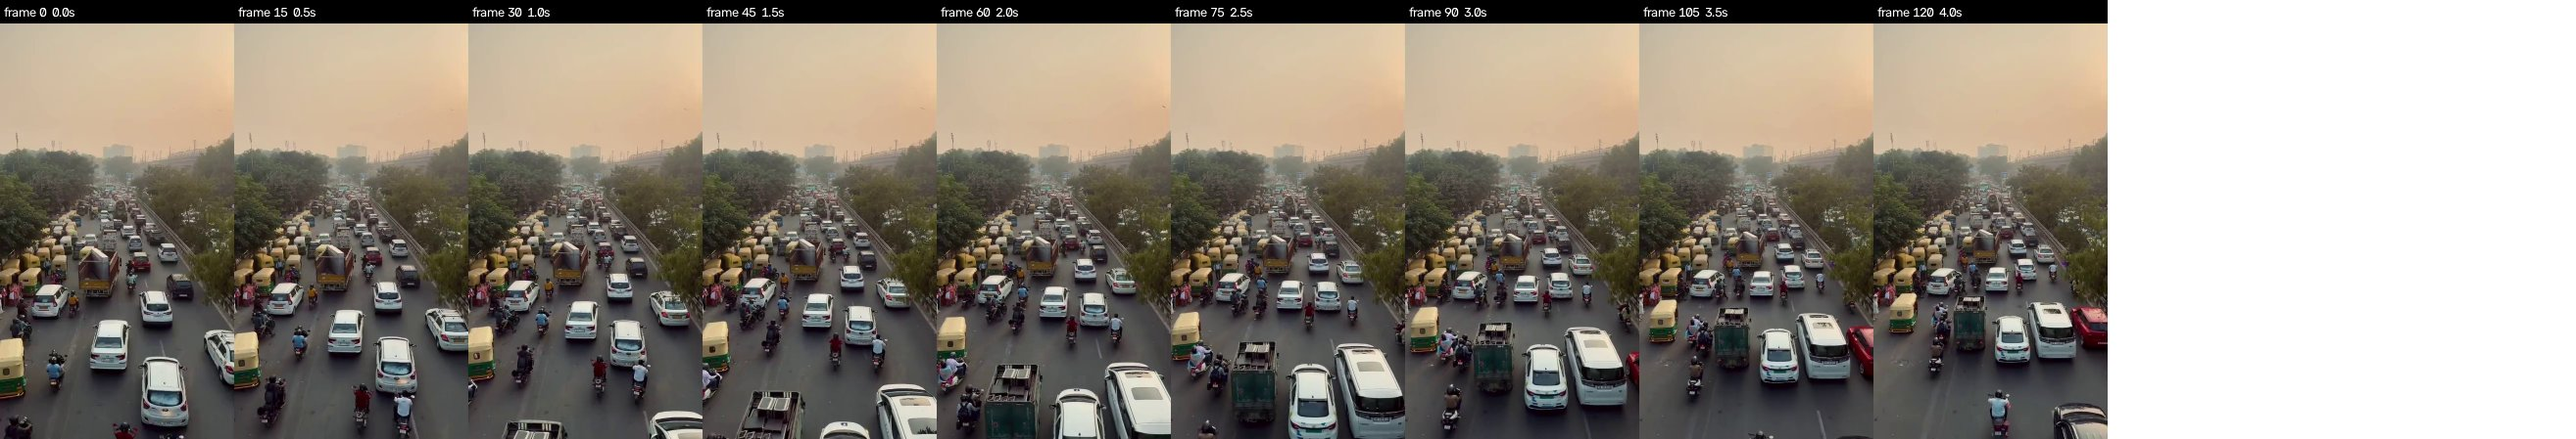
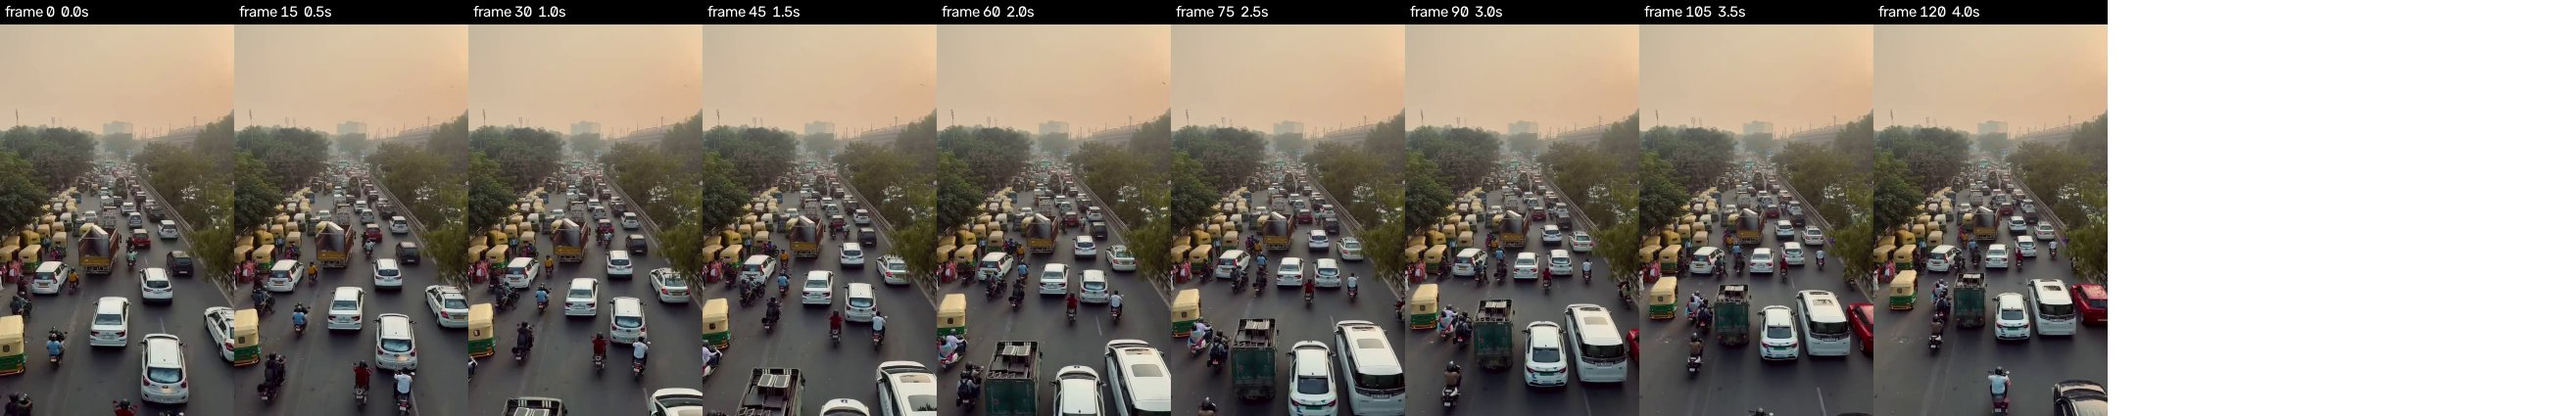
Health check before P4: 10/10 scripts, models, tests, data, docs pass; regenerate 6 stale contact sheets; make calibration report reproducible; P2 re-check on trimmed clips

diff --git a/tracevision/calibrate.py b/tracevision/calibrate.py
@@ -51,6 +51,13 @@ def correct(case, res):
     return res.decision == "no_confident_match"
 
 
+PRE_CALIBRATION = {"t_abs": 75.0, "t_margin": 5.0}   # hand-set design values before calibration
+
+
+def _with(cfg, **match_overrides):
+    c = json.loads(json.dumps(cfg)); c["match"].update(match_overrides); return c
+
+
 _RANKED = {}
 
 
@@ -109,8 +116,8 @@ def main():
            "best_calibration_balanced_accuracy": best_score, "plateau_size": len(plateau),
            "chosen": {"t_abs": t_abs, "t_margin": t_margin},
            "calibration": evaluate(cases, calib, cfg, registry), "holdout": evaluate(cases, hold, cfg, registry),
-           "before_calibration_defaults": {"t_abs": base["match"]["t_abs"], "t_margin": base["match"]["t_margin"],
-                                           "holdout": evaluate(cases, hold, base, registry)["balanced_accuracy"]}}
+           # fixed hand-set starting values (from the design), so the report is identical on every rerun
+           "before_calibration_defaults": {**PRE_CALIBRATION, "holdout": evaluate(cases, hold, _with(base, **PRE_CALIBRATION), registry)["balanced_accuracy"]}}
     REPORT.write_text(json.dumps(out, indent=2), encoding="utf-8")
     print(json.dumps({k: out[k] for k in ("chosen", "best_calibration_balanced_accuracy", "plateau_size")}))
     for s in ("calibration", "holdout"):

diff --git a/PROBLEMS.md b/PROBLEMS.md
@@ -1,6 +1,6 @@
 # TRACEVISION AI — Phase 0 Problem Log
 
-**Last updated:** 2026-11-23 (P3 done: fusion + matching, 26 tests, calibrated. Answer-key fix A24. Clip trim by another session A25.)
+**Last updated:** 2026-11-23 (Health check passed: 10/10 scripts, models, tests, data. Verified labels in: 51 vehicles. Open: cross-camera pair A6.)
 **Severity:** 🔴 Blocker (stops a phase) · 🟠 High (risks the demo or the results) · 🟡 Medium (workaround exists) · ⚪ Low / note
 
 Evidence for every item is in `TRACEVISION_DATA/reports/`. Done work is summarised in [completions.md](completions.md), the plan is in [whatnext.md](whatnext.md) and decisions are in [DECISIONS.md](DECISIONS.md).
@@ -56,7 +56,7 @@ Evidence for every item is in `TRACEVISION_DATA/reports/`. Done work is summaris
 | A22 | ⚪ | The spec's label columns have no place for a vehicle's full plate when the clip shows it only partly, but the registry needs a full plate to seed that vehicle. | Partly readable vehicles that should be `in_registry = yes` could not be seeded. | Added an optional `registry_plate_full` column, filled only when the team knows the plate from outside the clip (their own vehicle). It is never inferred from video. The validator checks it against the readable characters. | Decision, documented in LABELING_GUIDE.md |
 | A23 | 🟠 | **An AI-drafted label file appeared** (`test_clip_labels.csv`, 36 rows all noted "AI DRAFT - verify", plus `label_review/` images). It was probably written in a forked session; the origin can't be confirmed. I pushed it to the public repo on 2026-11-23 without noticing. It marks 27 of 36 vehicles `in_registry = no` and has no cross-camera group. | Treated as ground truth, it would make the system grade itself (the spec says only humans write labels). | **Renamed to `test_clip_labels_AI_DRAFT.csv`** (owner's choice). The validator and registry script read only `test_clip_labels.csv`. The team verifies every row against the clip before saving `test_clip_labels.csv`, and the guide says so (DECISIONS E11). It's still in git history. | ✅ Closed 2026-11-23: the owner verified all 51 draft rows (36 + 15 close-up vehicles) and they are saved as `test_clip_labels.csv`. The draft file is kept for reference. |
 | A24 | 🟡 | **Registry answer key had wrong expected outcomes:** 20 of 124 synthetic cases said `match` although another registry vehicle (same colour and type) fit every readable character, e.g. a decoy differing only at a hidden `?` position. | It would have penalised a correct matcher for saying "ambiguous". | Fixed in `generate_synthetic_registry.py`: an automatic consistency check relabels such cases `ambiguous` (registry rows unchanged). Found by P3. | ✅ Fixed |
-| A25 | 🟡 | **Six WhatsApp clips (clip01, 02, 04, 05, 06, 08) play their footage twice.** Another session trimmed them to the unique first half in commit `9c8921b` (2026-11-23 01:58), overwriting the files in `raw/`. | Doubled footage would double-count vehicles and fake "re-appearances". The P1/P2 smoke checks ran on the doubled versions, and the contact sheets and `frames_index.csv` from before the trim show both halves. | The originals are still in git history (`b85526d`), so nothing is lost. Re-run `extract_test_video_frames.py` and the contact sheets on the trimmed clips before labelling frames past the half-way point. | ✅ Closed: frames, `frames_index.csv`, `clips_meta.json` and contact sheets regenerated on the trimmed clips (9c8921b); clip06 fps corrected to 29.883 (b9a034d). |
+| A25 | 🟡 | **Six WhatsApp clips (clip01, 02, 04, 05, 06, 08) play their footage twice.** Another session trimmed them to the unique first half in commit `9c8921b` (2026-11-23 01:58), overwriting the files in `raw/`. | Doubled footage would double-count vehicles and fake "re-appearances". The P1/P2 smoke checks ran on the doubled versions, and the contact sheets and `frames_index.csv` from before the trim show both halves. | The originals are still in git history (`b85526d`), so nothing is lost. Re-run `extract_test_video_frames.py` and the contact sheets on the trimmed clips before labelling frames past the half-way point. | ✅ Resolved 2026-11-23: frames re-extracted (by the other session) and the 6 contact sheets regenerated. The P2 clip check re-run on the trimmed clips gives the same plate sizes (`reports/health_check_2026-11-23.md`). |
 | A11 | ⚪ | Two `.mp4` files sit in `~/Downloads` (`DS.mp4` and `original-5adf…mp4`). They are outside the working folder and were not inspected. | They may be intended test clips. | If so, move them into `raw/test_videos/` and record their source and licence. | Team to confirm |
 
 ## B. Models

diff --git a/TRACEVISION_DATA/reports/health_check_2026-11-23.md b/TRACEVISION_DATA/reports/health_check_2026-11-23.md
@@ -1,0 +1,32 @@
+# Health check: everything built so far (2026-11-23)
+
+Asked for by the owner before P4: "check once again if all the things are working till now properly". Every check below **actually ran**. Script outputs went to a scratch folder, so nothing in the repo was overwritten by the checks themselves.
+
+## Result: ✅ everything works. 3 small fixes made, 2 open items (expected)
+
+| Area | Check | Result |
+|---|---|---|
+| **Git** | Clean working tree, in sync with GitHub, other session's work committed (`9c8921b`, `b9a034d`, `21d641d`) | ✅ |
+| **Plate data** | processed 2,069 / 336 / 169 images = labels; boxes 2,084 / 339 / 171; `name_map` 2,574 rows; leakage-free test 106; raw 5,152 files | ✅ matches the P0B report |
+| **OCR set** | 1,709 rows, 965 primary, 0 missing crop files | ✅ |
+| **Clips** | 11 files ↔ 11 `clips.csv` rows; real frame counts and durations match `clips.csv` (to within 0.04 s); sources and licences filled | ✅ |
+| **Frames** | `frames_index.csv` matches the trimmed clips; no frames past any clip's end; every frame file is indexed | ✅ |
+| **Contact sheets** | **6 were stale** (made before the trim, so they showed the doubled footage) | 🔧 **Regenerated** for clip01, 02, 04, 05, 06, 08 |
+| **Registry** | 334 rows, unique plates, all `synthetic = true`, spec columns; every expected ID in the 124 cases exists; **regenerating gives byte-identical registry and cases** | ✅ reproducible |
+| **Labels** | `test_clip_labels.csv`: 51 vehicles in 11 clips, owner-verified (commit `21d641d`). Validator: **0 field errors**, 0 warnings. 1 coverage error: no cross-camera group yet | ✅ (cross-camera pair is planned: A6) |
+| **10 Phase 0 scripts** | Each run on a small sample: inspect, validate_plate, prepare_plate, build_ocr, awiros (GPU), extract_frames, template, validate_labels, degrade, registry | ✅ **10/10 pass** |
+| **Awiros OCR** | GPU sample of 20: 80% exact, CER 3.2%, **14 ms median** (same as P0C) | ✅ |
+| **torch + Paddle** | Two-process design: YOLO in the main process, OCR worker at about 15 ms per crop, YOLO still fine afterwards | ✅ |
+| **Model files** | UVH-26 sha256 `12dbeb8f…` ✅, plate detector `3f8e0009…` ✅, UVH-26 loads with 14 classes | ✅ |
+| **Plate detector** | Re-evaluated: leakage-free mAP50 **0.9945** / mAP50-95 **0.754**, identical to P2 | ✅ reproducible |
+| **P2 on trimmed clips** | clip01/02/08: median plate height 14 / 9.5 / 14 px (was 13 / 9 / 13 on the doubled versions) | ✅ conclusions unchanged; note added to the P2 report |
+| **P3 code** | 26 unit tests pass; calibration picks the same thresholds (67.5 / 5) with holdout 62/62 | ✅ |
+| **Calibration report** | **Wasn't byte-reproducible:** the "before calibration" field recorded whatever `config.yaml` held at run time (75, then 67.5) | 🔧 **Fixed** (pinned to the original design values); now identical on rerun |
+| **Docs** | All links and referenced file paths in the top-level docs, reports and the labelling guide exist | ✅ 0 broken |
+
+## Open (known, not failures)
+1. **No cross-camera pair yet (A6).** The owner will film one car from 2 positions. Until then the label validator reports 1 coverage error, which is expected.
+2. **Label balance:** 42 of 51 labelled vehicles are `in_registry = no`, so only 9 vehicles can test a positive match on real clips. That's fine for no-match testing. More `yes` vehicles with readable plates would strengthen the match evaluation (P6).
+
+## Lessons recorded
+- On Windows, anything that starts PyTorch data loaders (training or `model.val`) must run from a `.py` file, not from stdin, or it hangs with the GPU idle. It happened twice (P2 and this check), so use the scripts in `scripts/smoke/`.

diff --git a/completions.md b/completions.md
@@ -115,6 +115,10 @@ Full report: `TRACEVISION_DATA/reports/p3_fusion_and_matching.md`. Code in `trac
 - **26 unit tests pass.** Thresholds calibrated with a split by anchor: **held-out 62/62**, top-1 32/32. The cases are synthetic designed traps, not real-world accuracy.
 - Found and fixed **20 wrong expected outcomes** in the generated answer key (A24).
 
+## 4e. Health check (2026-11-23)
+
+Full report: `TRACEVISION_DATA/reports/health_check_2026-11-23.md`. **All 10 Phase 0 scripts, all 3 models, the 26 tests, the data and the docs check out.** Fixed along the way: 6 stale contact sheets (after the clip trim) and a reproducibility bug in the calibration report. **Owner-verified labels are in** (`test_clip_labels.csv`, 51 vehicles, 0 field errors); only the cross-camera pair is missing (A6).
+
 ## 5. Decisions
 
 All decisions, with the reason for each and their status, are in **[DECISIONS.md](DECISIONS.md)** (D1–D10 data, M1–M6 models, E1–E9 evaluation, P1–P3 process).
@@ -139,4 +143,5 @@ All decisions, with the reason for each and their status, are in **[DECISIONS.md
 | 4b6bd57 | DECISIONS.md, status docs refreshed |
 | 74994ff | P1: vision stack, UVH-26 class mapping, two-process OCR, smoke test |
 | 1fcaf35 | P2: plate detector trained and evaluated; weights via LFS |
-| (this push) | P3: fusion + matching + tests + calibration; answer-key fix |
+| 2a29749 | P3: fusion + matching + tests + calibration; answer-key fix |
+| (this push) | Health check; contact sheets regenerated; calibration report reproducible |

diff --git a/TRACEVISION_DATA/reports/p2_plate_detector.md b/TRACEVISION_DATA/reports/p2_plate_detector.md
@@ -34,6 +34,8 @@
 ![clip11](figures/p2_plates_clip11.jpg)
 ![clip02](figures/p2_plates_clip02.jpg)
 
+> **Re-check 2026-11-23 after the clip trim (A25):** six clips had played their footage twice. Re-running on the trimmed clip01/02/08: 142 / 205 / 90 vehicles, 65 / 16 / 26 plates, median plate height **14 / 9.5 / 14 px**. Counts roughly halve as expected, plate sizes are unchanged, and the conclusions below still hold.
+
 **What this shows:**
 1. **Close plates are found and cropped cleanly** in daylight, at night and on two-wheelers.
 2. **Far plates are still *found*,** but at 5–14 px tall **no OCR can read them.** That's a limit of the footage, not of the detector. The WhatsApp clips are mostly in this range; clip03 is borderline.
